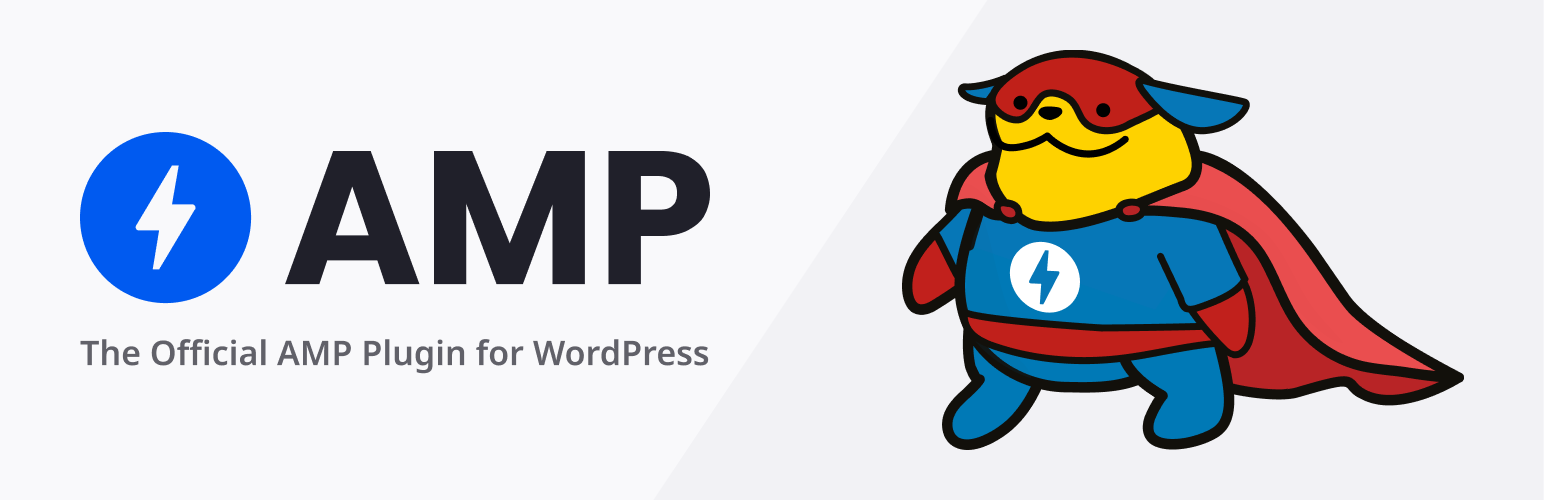
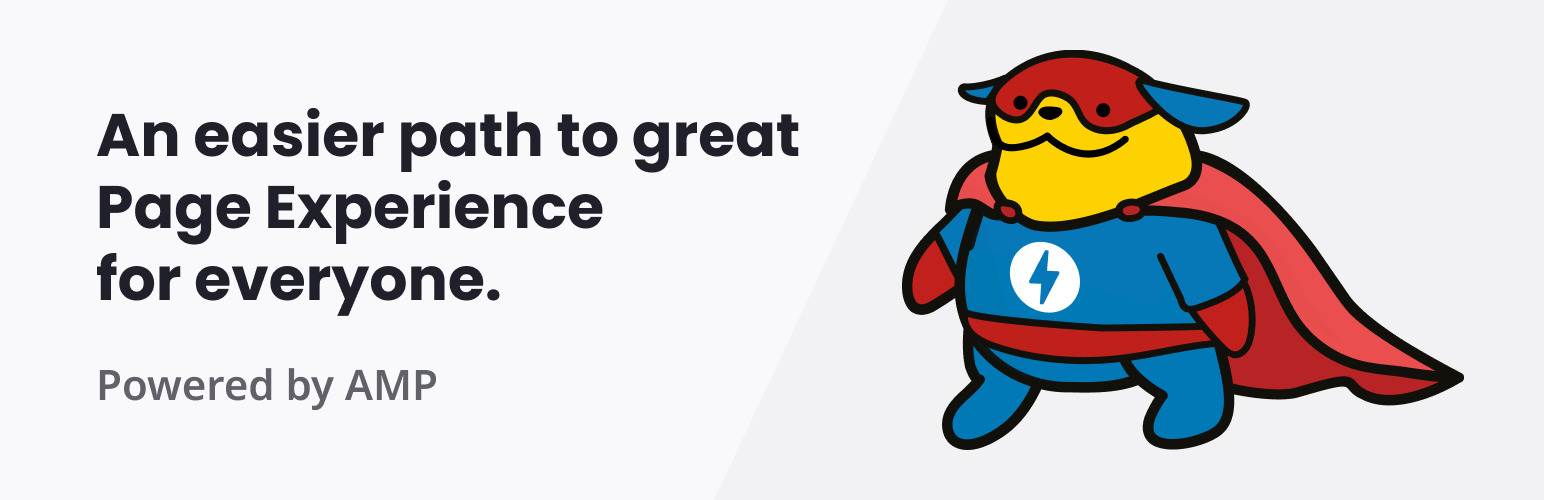
Update README for v2.1 (#6110)

Changed region(s): [[0.0311, 0.21, 0.5285, 0.63], [0.0311, 0.66, 0.4663, 0.81]]

diff --git a/amp.php b/amp.php
@@ -1,7 +1,7 @@
 <?php
 /**
  * Plugin Name: AMP
- * Description: Enable AMP on your WordPress site, the WordPress way.
+ * Description: An easier path to great Page Experience for everyone. Powered by AMP.
  * Plugin URI: https://amp-wp.org
  * Author: AMP Project Contributors
  * Author URI: https://github.com/ampproject/amp-wp/graphs/contributors

diff --git a/README.md b/README.md
@@ -2,10 +2,10 @@
 
 ![Banner](.wordpress-org/banner-1544x500.png)
 
-The official AMP Plugin, supported by the AMP team. Formerly Accelerated Mobile Pages, AMP enables great experiences across both mobile and desktop.
+An easier path to great Page Experience for everyone. Powered by AMP.
 
-**Contributors:** [google](https://profiles.wordpress.org/google), [xwp](https://profiles.wordpress.org/xwp), [automattic](https://profiles.wordpress.org/automattic), [westonruter](https://profiles.wordpress.org/westonruter), [albertomedina](https://profiles.wordpress.org/albertomedina), [schlessera](https://profiles.wordpress.org/schlessera), [swissspidy](https://profiles.wordpress.org/swissspidy), [pierlo](https://profiles.wordpress.org/pierlo), [johnwatkins0](https://profiles.wordpress.org/johnwatkins0), [joshuawold](https://profiles.wordpress.org/joshuawold), [ryankienstra](https://profiles.wordpress.org/ryankienstra)  
-**Tags:** [amp](https://wordpress.org/plugins/tags/amp), [mobile](https://wordpress.org/plugins/tags/mobile), [optimization](https://wordpress.org/plugins/tags/optimization), [accelerated mobile pages](https://wordpress.org/plugins/tags/accelerated-mobile-pages), [framework](https://wordpress.org/plugins/tags/framework), [components](https://wordpress.org/plugins/tags/components), [blocks](https://wordpress.org/plugins/tags/blocks), [performance](https://wordpress.org/plugins/tags/performance), [ux](https://wordpress.org/plugins/tags/ux), [seo](https://wordpress.org/plugins/tags/seo), [official](https://wordpress.org/plugins/tags/official)  
+**Contributors:** [google](https://profiles.wordpress.org/google), [xwp](https://profiles.wordpress.org/xwp), [automattic](https://profiles.wordpress.org/automattic), [westonruter](https://profiles.wordpress.org/westonruter), [albertomedina](https://profiles.wordpress.org/albertomedina), [schlessera](https://profiles.wordpress.org/schlessera), [swissspidy](https://profiles.wordpress.org/swissspidy), [pierlo](https://profiles.wordpress.org/pierlo), [delawski](https://profiles.wordpress.org/delawski/), [johnwatkins0](https://profiles.wordpress.org/johnwatkins0), [joshuawold](https://profiles.wordpress.org/joshuawold)  
+**Tags:** [page experience](https://wordpress.org/plugins/tags/page-experience), [performance](https://wordpress.org/plugins/tags/performance), [amp](https://wordpress.org/plugins/tags/amp), [mobile](https://wordpress.org/plugins/tags/mobile), [optimization](https://wordpress.org/plugins/tags/optimization), [accelerated mobile pages](https://wordpress.org/plugins/tags/accelerated-mobile-pages)
 **Requires at least:** 4.9  
 **Tested up to:** 5.7  
 **Stable tag:** 2.0.11  
@@ -18,7 +18,7 @@ The official AMP Plugin, supported by the AMP team. Formerly Accelerated Mobile 
 
 ## Description
 
-This official plugin from the AMP project enables AMP content publishing with WordPress in a way that is fully and seamlessly integrated with the standard mechanisms of the platform.
+[Page Experience](https://developers.google.com/search/docs/guides/page-experience) (PX) is a set of ranking signals—including [Core Web Vitals](https://web.dev/vitals/#core-web-vitals) (CWV)—measuring the user experience of interacting with a web page. AMP is a powerful tool which applies many optimizations and best practices automatically on your site, making it easier for you to achieve good page experience for your visitors. The official AMP Plugin, supported by the AMP team, makes it easy to bring the power of AMP to your WordPress site, seamlessly integrating with the normal publishing flow and allowing the use of existing themes and plugins.
 
 [![Play video on YouTube](https://i1.ytimg.com/vi/s52JNMT59s8/hqdefault.jpg)](https://www.youtube.com/watch?v=s52JNMT59s8&list=PLXTOW_XMsIDRGRr5QDffrvND8Qh1RndFb)
 
